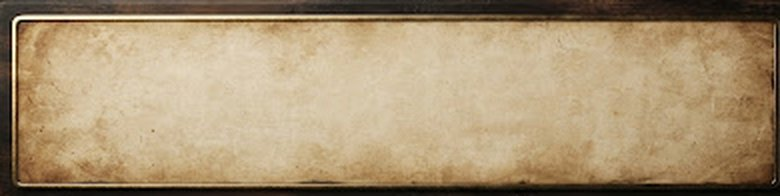
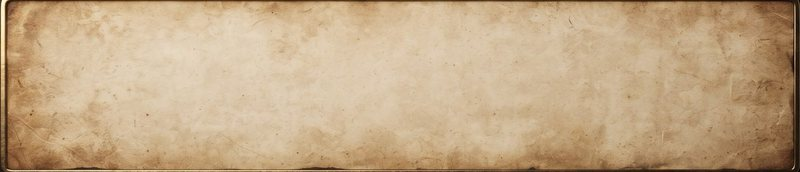
タイトルの筆跡・ボタン・四隅の飾りを高解像度の絵に差し替え
Claude-Session: https://claude.ai/code/session_01RqKGutQmFeHhrQiARQ5WFF

diff --git a/intern2026/202610/internT/style.css b/intern2026/202610/internT/style.css
@@ -104,18 +104,18 @@ button { font-family: inherit; }
 .title-wrap { position: relative; z-index: 1; display: flex; flex-direction: column; align-items: center; height: 100%; padding: calc(60px + var(--safe-t)) 24px calc(20px + var(--safe-b)); }
 .logo { font-family: var(--brush); font-weight: normal; font-size: 74px; margin: 0; color: #f6e8c6; writing-mode: horizontal-tb; letter-spacing: .05em; text-shadow: 0 0 2px #000, 0 4px 18px #000, 0 0 40px #a8241a; }
 .logo { position: relative; }
-.logo::before { content: ''; position: absolute; left: 50%; top: 52%; width: min(118vw, 540px); aspect-ratio: 800 / 336; transform: translate(-50%, -50%); background: url(media/title_ink.webp?v=1) center / contain no-repeat; z-index: -1; pointer-events: none; opacity: 0; clip-path: inset(0 100% 0 0); animation: inkSweep .9s .05s cubic-bezier(.3,.8,.4,1) forwards; }   /* 題字の後ろの赤い筆跡（左から右へ走る） */
+.logo::before { content: ''; position: absolute; left: 50%; top: 52%; width: min(118vw, 540px); aspect-ratio: 1000 / 430; transform: translate(-50%, -50%); background: url(media/title_ink.webp?v=2) center / contain no-repeat; z-index: -1; pointer-events: none; opacity: 0; clip-path: inset(0 100% 0 0); animation: inkSweep .9s .05s cubic-bezier(.3,.8,.4,1) forwards; }   /* 題字の後ろの赤い筆跡（左から右へ走る） */
 @keyframes inkSweep { 30% { opacity: .9; } to { opacity: .9; clip-path: inset(0 0 0 0); } }
 .logo span { position: relative; display: inline-block; opacity: 0; animation: inkIn 1s forwards; }
 .logo span:nth-child(2) { animation-delay: .25s; } .logo span:nth-child(3) { animation-delay: .5s; } .logo span:nth-child(4) { animation-delay: .75s; }
 @keyframes inkIn { 0% { opacity: 0; transform: scale(1.6); filter: blur(10px); } 100% { opacity: 1; transform: none; filter: none; } }
 .logo-sub { color: var(--gold2); letter-spacing: .5em; font-size: 18px; margin-top: 4px; text-shadow: 0 2px 8px #000; opacity: 0; animation: inkIn 1s 1.1s forwards; }
 /* タイトルのボタン：赤い漆の札と、古紙の札（絵を横に伸ばして使う） */
-#title .title-menu .btn { border: none; border-radius: 3px; background: url(media/btn_paper.jpg?v=1) center / 100% 100% no-repeat; color: #3a2414; box-shadow: 0 4px 10px #000c; text-shadow: 0 1px 0 #fff6; min-height: 54px; }
-#title .title-menu .btn.primary { background-image: url(media/btn_red.jpg?v=1); color: #f8e2a8; text-shadow: 0 1px 3px #000, 0 0 8px #000a; }
+#title .title-menu .btn { border: none; border-radius: 3px; background: url(media/btn_paper.jpg?v=2) center / 100% 100% no-repeat; color: #3a2414; box-shadow: 0 4px 10px #000c; text-shadow: 0 1px 0 #fff6; min-height: 54px; }
+#title .title-menu .btn.primary { background-image: url(media/btn_red.jpg?v=2); color: #f8e2a8; text-shadow: 0 1px 3px #000, 0 0 8px #000a; }
 #title .title-menu .btn:active { filter: brightness(1.15); transform: translateY(1px); }
 /* タイトルの四隅の金の飾り（左上の絵を反転して四隅に） */
-.corner { position: absolute; width: min(24vw, 110px); aspect-ratio: 446 / 494; background: url(media/corner.webp?v=1) center / contain no-repeat; z-index: 1; pointer-events: none; opacity: 0; animation: cornerIn 1.2s .4s forwards; filter: drop-shadow(0 0 3px #000); }
+.corner { position: absolute; width: min(24vw, 110px); aspect-ratio: 440 / 489; background: url(media/corner.webp?v=2) center / contain no-repeat; z-index: 1; pointer-events: none; opacity: 0; animation: cornerIn 1.2s .4s forwards; filter: drop-shadow(0 0 3px #000); }
 @keyframes cornerIn { to { opacity: .95; } }
 .corner.tl { left: 6px; top: calc(6px + var(--safe-t)); }
 .corner.tr { right: 6px; top: calc(6px + var(--safe-t)); transform: scaleX(-1); }

diff --git a/intern2026/202610/internT/index.html b/intern2026/202610/internT/index.html
@@ -11,7 +11,7 @@
 <link rel="preconnect" href="https://fonts.googleapis.com">
 <link rel="preconnect" href="https://fonts.gstatic.com" crossorigin>
 <link href="https://fonts.googleapis.com/css2?family=Shippori+Mincho+B1:wght@500;800&family=Yuji+Syuku&display=swap" rel="stylesheet">
-<link rel="stylesheet" href="style.css?v=20261298">
+<link rel="stylesheet" href="style.css?v=20261299">
 </head>
 <body>
 <div id="app">
@@ -87,22 +87,22 @@
   <div id="toast" class="toast"></div>
 </div>
 
-<script src="js/data_cities.js?v=20261298"></script>
-<script src="js/data_generals.js?v=20261298"></script>
-<script src="js/data_scenarios.js?v=20261298"></script>
-<script src="js/audio.js?v=20261298"></script>
-<script src="js/portrait.js?v=20261298"></script>
-<script src="js/game.js?v=20261298"></script>
-<script src="js/lines.js?v=20261298"></script>
-<script src="js/data_genev.js?v=20261298"></script>
-<script src="js/events.js?v=20261298"></script>
-<script src="js/flavor.js?v=20261298"></script>
-<script src="js/mapview.js?v=20261298"></script>
-<script src="js/skills.js?v=20261298"></script>
-<script src="js/battle.js?v=20261298"></script>
-<script src="js/auto.js?v=20261298"></script>
-<script src="js/cinema.js?v=20261298"></script>
-<script src="js/secret.js?v=20261298"></script>
-<script src="js/ui.js?v=20261298"></script>
+<script src="js/data_cities.js?v=20261299"></script>
+<script src="js/data_generals.js?v=20261299"></script>
+<script src="js/data_scenarios.js?v=20261299"></script>
+<script src="js/audio.js?v=20261299"></script>
+<script src="js/portrait.js?v=20261299"></script>
+<script src="js/game.js?v=20261299"></script>
+<script src="js/lines.js?v=20261299"></script>
+<script src="js/data_genev.js?v=20261299"></script>
+<script src="js/events.js?v=20261299"></script>
+<script src="js/flavor.js?v=20261299"></script>
+<script src="js/mapview.js?v=20261299"></script>
+<script src="js/skills.js?v=20261299"></script>
+<script src="js/battle.js?v=20261299"></script>
+<script src="js/auto.js?v=20261299"></script>
+<script src="js/cinema.js?v=20261299"></script>
+<script src="js/secret.js?v=20261299"></script>
+<script src="js/ui.js?v=20261299"></script>
 </body>
 </html>
